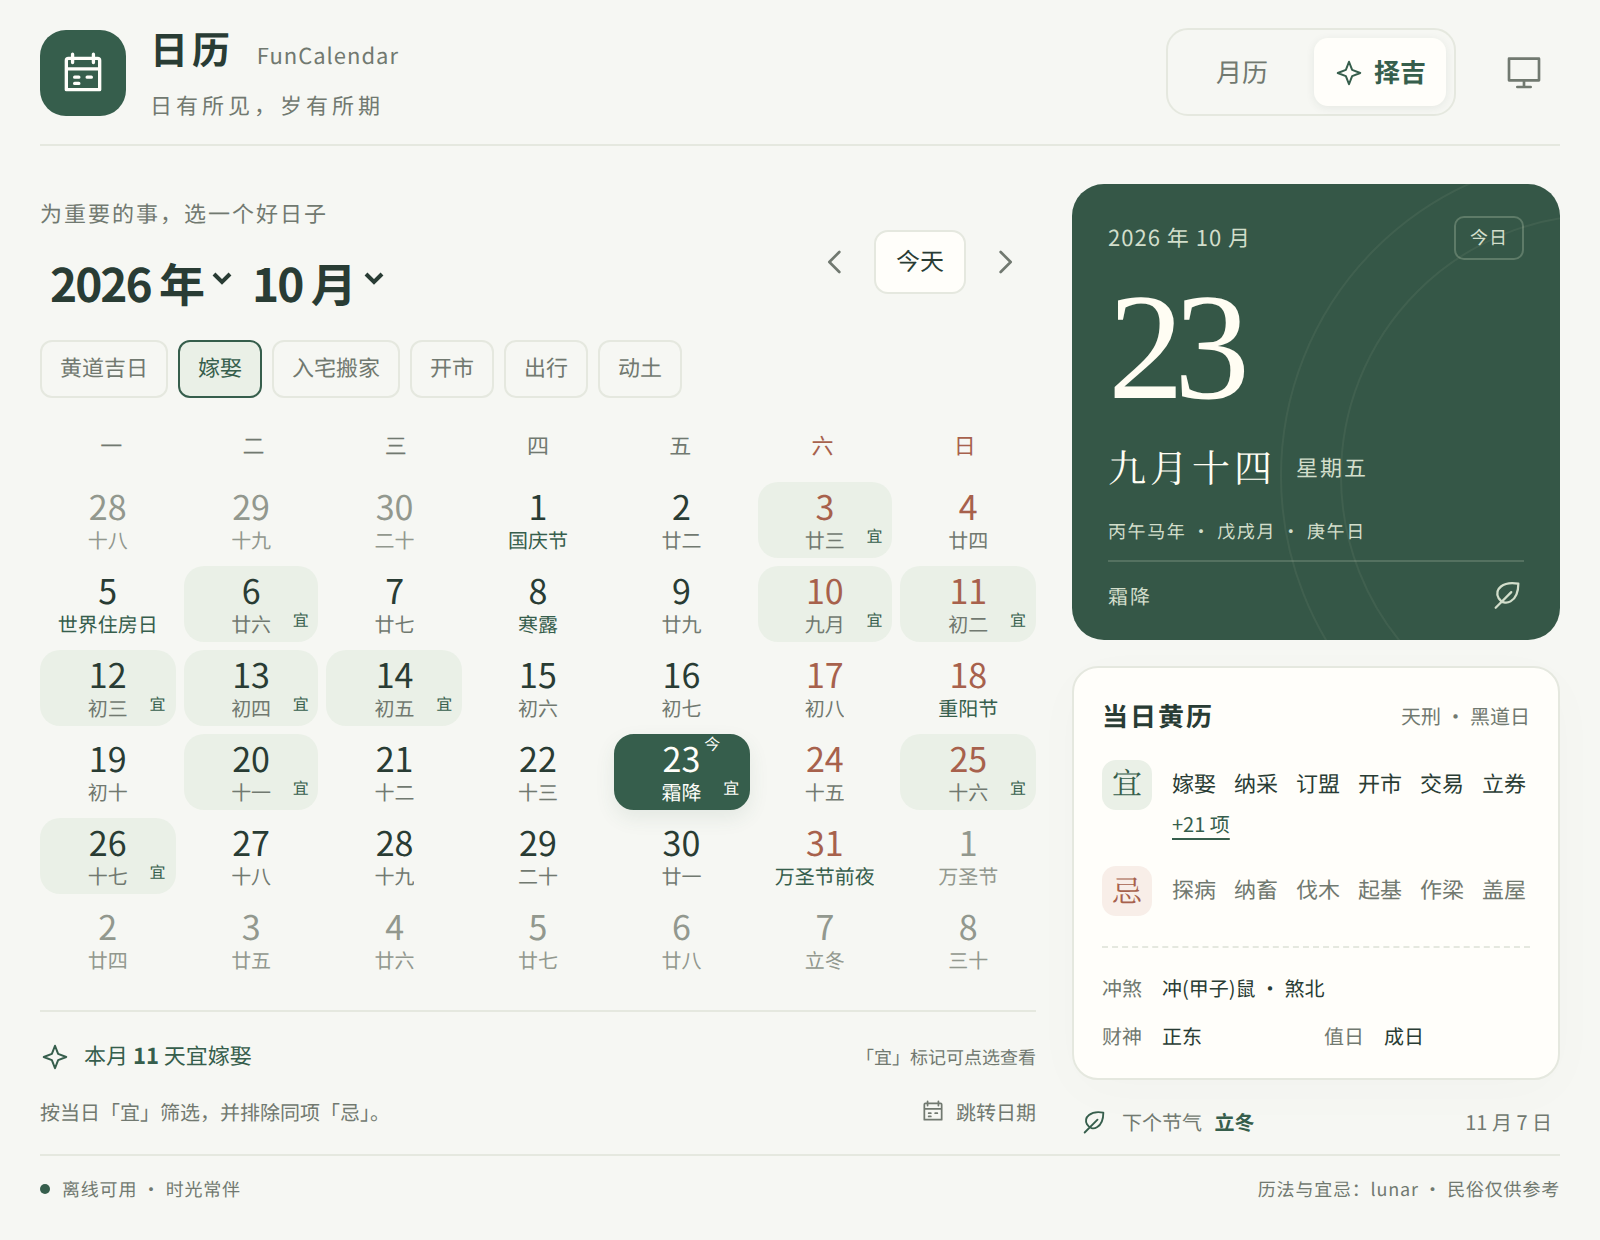
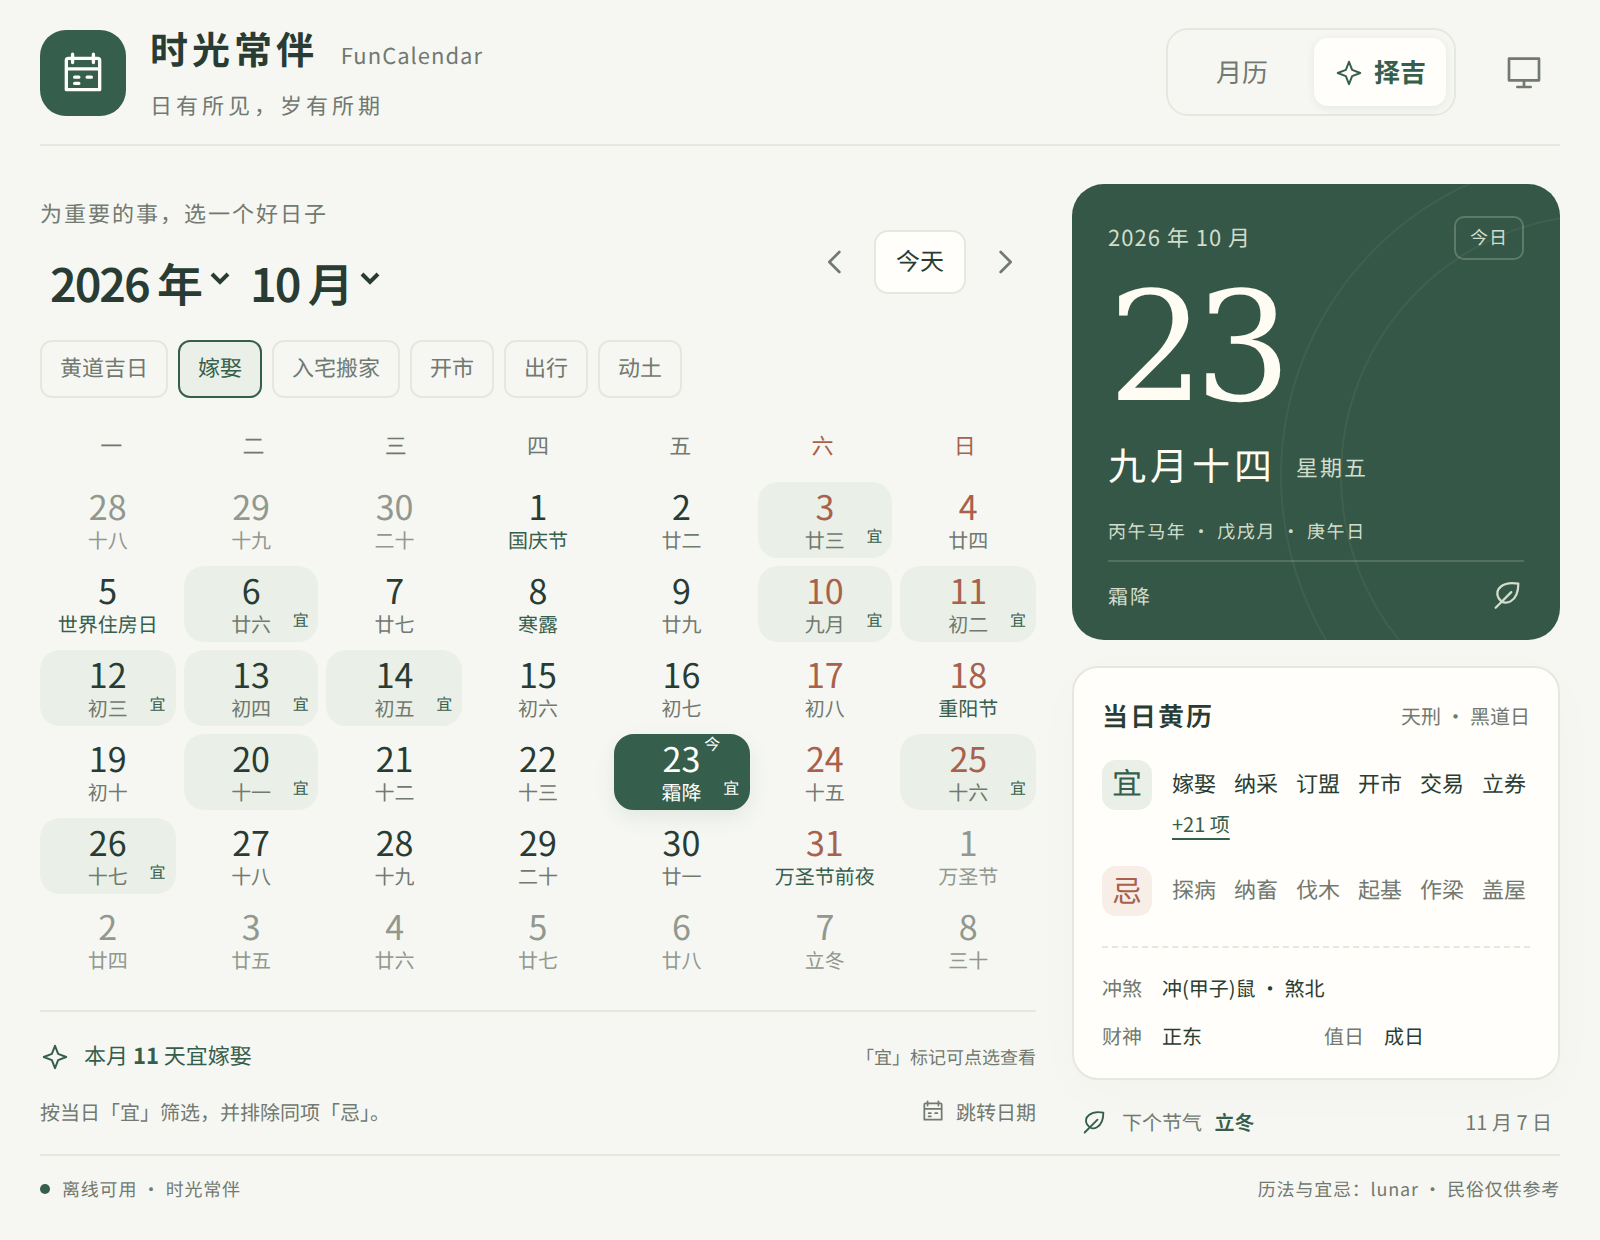
feat: name calendar 时光常伴 and complete project metadata

diff --git a/src/App.vue b/src/App.vue
@@ -119,7 +119,7 @@ onUnmounted(() => {
     <header class="app-header">
       <div class="brand">
         <span class="brand-icon"><AppIcon name="calendar" /></span>
-        <div><h1>日历 <span>FunCalendar</span></h1><p>日有所见，岁有所期</p></div>
+        <div><h1>时光常伴 <span>FunCalendar</span></h1><p>日有所见，岁有所期</p></div>
       </div>
       <nav class="view-switch" aria-label="日历模式">
         <button :class="{ active: view === 'calendar' }" :aria-pressed="view === 'calendar'" @click="view = 'calendar'">月历</button>

diff --git a/index.html b/index.html
@@ -5,7 +5,7 @@
     <meta name="viewport" content="width=device-width, initial-scale=1.0" />
     <meta name="theme-color" content="#35594b" />
     <link rel="icon" href="data:," />
-    <title>日历 FunCalendar</title>
+    <title>时光常伴 FunCalendar</title>
   </head>
   <body>
     <div id="app"></div>

diff --git a/README.md b/README.md
@@ -1,11 +1,15 @@
-# 日历 FunCalendar
+# 时光常伴 FunCalendar
 
-一款清爽的 uTools 双历与黄历插件。松绿色、暖白纸感，一页看阳历、农历和每日宜忌。
+**时光常伴**是一款离线使用的 uTools 双历与黄历插件：一页看阳历、农历、二十四节气和每日宜忌，按嫁娶、搬家、开市等事项查询吉日。松绿色、暖白纸感，日有所见，岁有所期。
 
-<p align="center"><img src="utools/logo.png" alt="FunCalendar" width="80"></p>
+Offline Gregorian & Chinese lunar calendar for uTools, with solar terms, traditional almanac and auspicious date filtering.
+
+<p align="center"><img src="utools/logo.png" alt="时光常伴 FunCalendar" width="80"></p>
 
 [![CI](https://github.com/farfarfun-utools/utools-funcalendar/actions/workflows/ci.yml/badge.svg)](https://github.com/farfarfun-utools/utools-funcalendar/actions/workflows/ci.yml)
 [![Screenshots](https://github.com/farfarfun-utools/utools-funcalendar/actions/workflows/screenshots.yml/badge.svg)](https://github.com/farfarfun-utools/utools-funcalendar/actions/workflows/screenshots.yml)
+
+[安装与使用](#开发与安装) · [构建包下载](https://github.com/farfarfun-utools/utools-funcalendar/actions/workflows/ci.yml) · [问题反馈](https://github.com/farfarfun-utools/utools-funcalendar/issues) · [组织插件总览](https://github.com/farfarfun-utools/utools-plugins)
 
 ## 功能
 
@@ -51,7 +55,7 @@ sh build.sh       # 安装锁定依赖、检查、测试、构建及清单校验
 pnpm screenshots  # 构建后生成截图，同时运行浏览器检查
 ```
 
-在 uTools 开发者工具中创建项目，导入 **`utools/plugin.json`**。输入 `日历`、`农历`、`黄历` 或 `FunCalendar` 进入月历；输入 `吉日`、`择吉` 或 `黄道吉日` 进入择吉模式。
+在 uTools 开发者工具中创建项目，导入 **`utools/plugin.json`**。输入 `时光常伴`、`日历`、`农历`、`黄历` 或 `FunCalendar` 进入月历；输入 `吉日`、`择吉` 或 `黄道吉日` 进入择吉模式。
 
 CI 也会上传可直接导入开发者工具的 `utools-funcalendar` 构建产物，下载解压后选择其中的 `plugin.json`。
 
